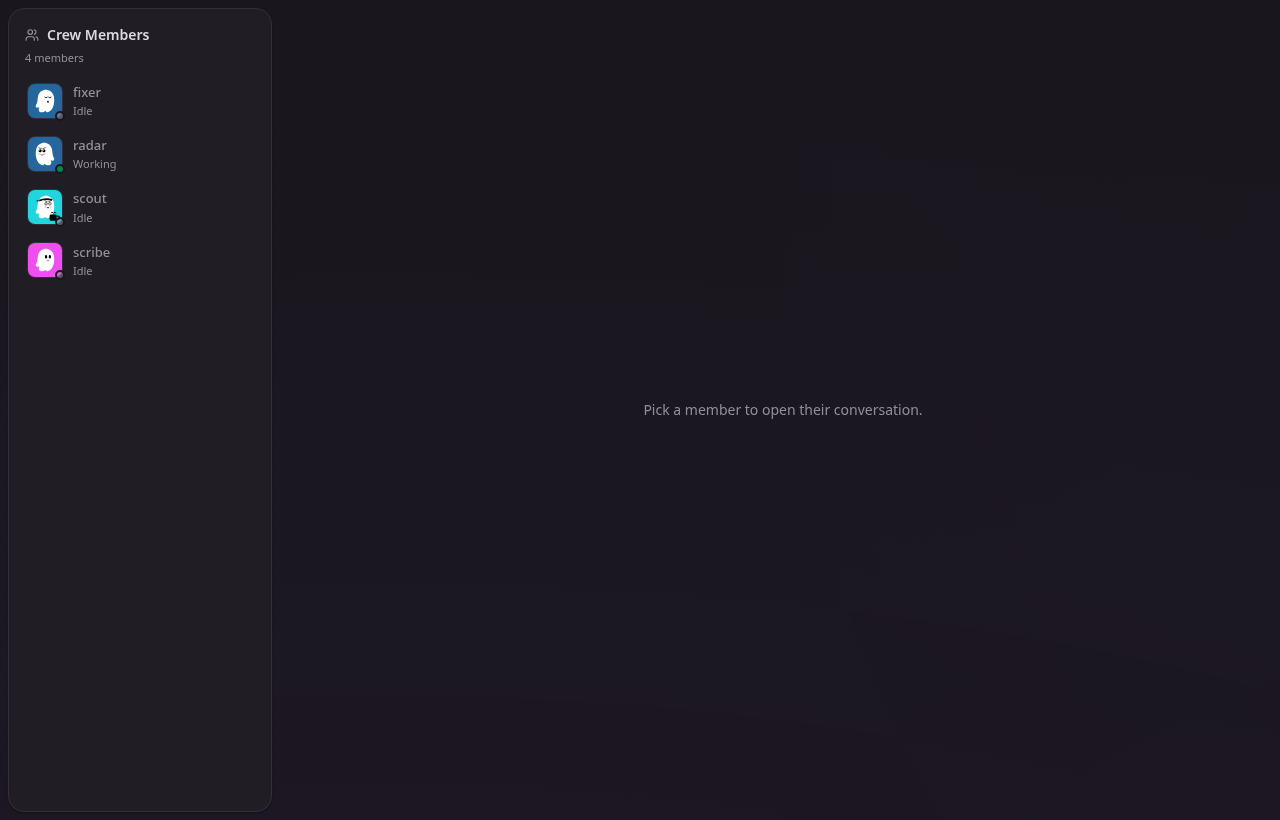
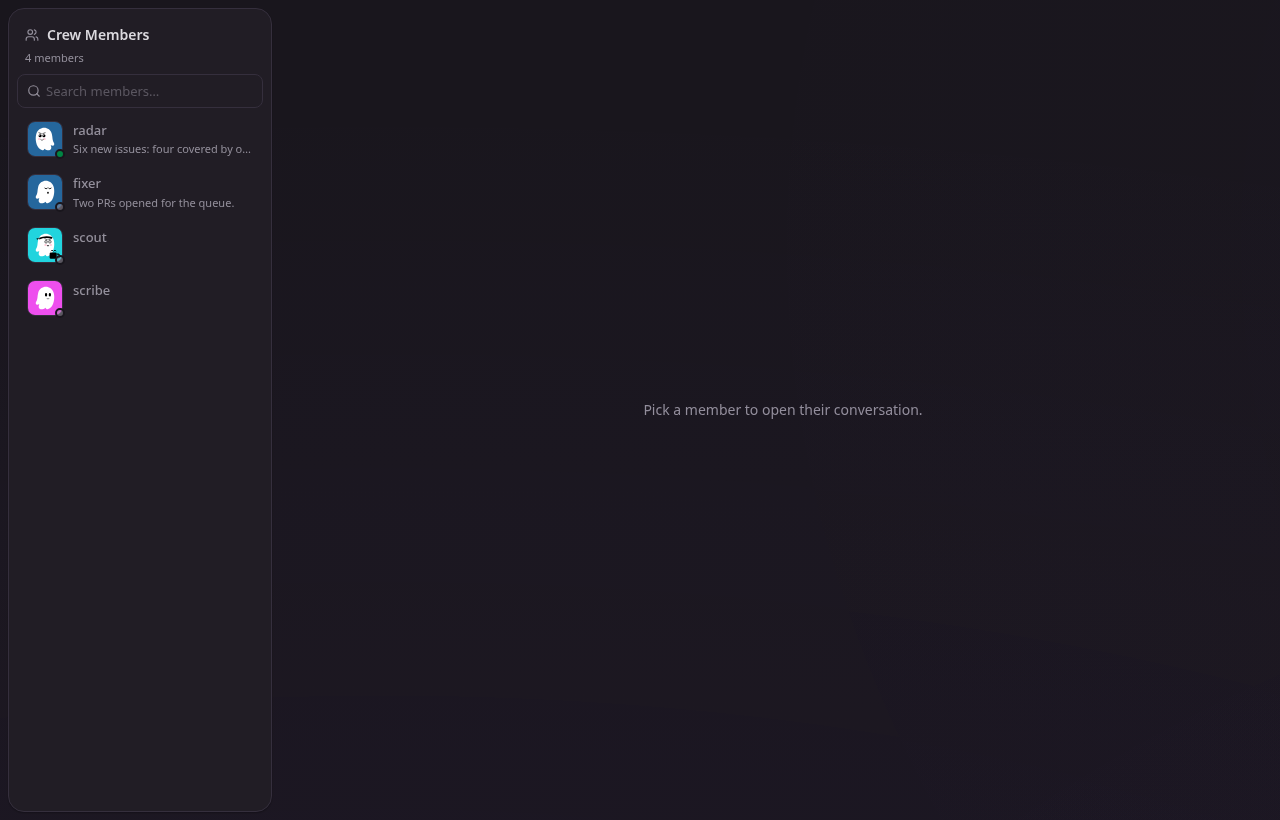
fix(members): roster rows read like session rows, plus search
Follow-up PM round on the Crew Members page (the prior batch landed
in #6616):

- Roster rows drop the Idle/Working label for the thread's
  last-message preview — the same sub-line a session row carries.
  Presence already rides the avatar dot, so the textual label said
  nothing the dot did not. The preview reuses the sessions list's
  last_message_preview + redaction path, so a member row can never
  leak what a session row would not.
- A SearchInput (the sessions sidebar idiom) filters the roster by
  name; new search_members key across 12 locales, en-XA regenerated.
- The thread header drops its status sub-line (name only, like the
  chat page header), and the drawer's local close button survives
  only below md — on desktop the header's panel toggle is the one
  close gesture, matching the chat page's side panel.

Backend: the roster response gains last_message, read in the same
one-thread-hop batch as last_active_ts.

Tests: backend pins last_message ('' when no transcript); frontend
pins the preview sub-line, the absence of status labels, and the
name filter. Capture assertions updated and all frames re-verified.

Changed region(s): [[0.0, 0.0915, 0.1562, 0.3963]]

diff --git a/website/src/pages/members/MembersPage.tsx b/website/src/pages/members/MembersPage.tsx
@@ -29,6 +29,7 @@ import { useAppSelector } from '../../store'
 import CrewAvatar from '../../components/CrewAvatar'
 import ChatPane from '../../components/ChatPane'
 import ErrorBoundary from '../../components/ErrorBoundary'
+import { SearchInput } from '../../components/ui'
 import ResizeHandle from '../../components/ResizeHandle'
 import { useColumnResize } from '../../hooks/useColumnResize'
 import { loadColumnWidth } from '../../lib/columnWidth'
@@ -119,14 +120,15 @@ export default function MembersPage() {
   // Most-recently-active first (like any IM member list); never-talked
   // members fall to the bottom alphabetically. Sorted once from the roster
   // snapshot — live re-sorting mid-session would move rows under the cursor.
-  const sortedMembers = useMemo(
-    () =>
-      [...members].sort(
-        (a, b) =>
-          (b.last_active_ts ?? 0) - (a.last_active_ts ?? 0) || compareText(a.name, b.name),
-      ),
-    [members],
-  )
+  const [filter, setFilter] = useState('')
+  const sortedMembers = useMemo(() => {
+    const ordered = [...members].sort(
+      (a, b) =>
+        (b.last_active_ts ?? 0) - (a.last_active_ts ?? 0) || compareText(a.name, b.name),
+    )
+    const q = filter.trim().toLowerCase()
+    return q ? ordered.filter((m) => m.name.toLowerCase().includes(q)) : ordered
+  }, [members, filter])
   const activeSlot = active ? slots[active.name] ?? '' : ''
   const activeError = active ? errors[active.name] ?? '' : ''
 
@@ -200,6 +202,16 @@ export default function MembersPage() {
         <div className="px-4 pb-2 text-[11px] text-muted">
           {t('pages.membersPage.member_count', { count: members.length })}
         </div>
+        {/* Same search idiom as the Sessions sidebar. */}
+        <div className="px-2 pb-1">
+          <SearchInput
+            className="w-full"
+            placeholder={t('pages.membersPage.search_members')}
+            value={filter}
+            onChange={(e) => setFilter(e.target.value)}
+            data-testid="member-search"
+          />
+        </div>
         <ul
           className="flex-1 overflow-y-auto scrollbar-none list-none m-0 px-2 pb-2"
           style={{ scrollbarWidth: 'none' }}
@@ -248,10 +260,11 @@ export default function MembersPage() {
                 </span>
                 <span className="min-w-0 flex-1">
                   <span className="block text-[13px] font-medium truncate">{m.name}</span>
+                  {/* Last-message preview, like a session row — presence
+                      already rides the avatar dot, so a textual Idle/Working
+                      label said nothing the dot did not. */}
                   <span className="block text-[11px] text-muted truncate">
-                    {isRunning(m)
-                      ? t('pages.membersPage.status_working')
-                      : t('pages.membersPage.status_idle')}
+                    {m.last_message || '\u00a0'}
                   </span>
                 </span>
               </button>
@@ -296,11 +309,6 @@ export default function MembersPage() {
               <CrewAvatar seed={active.name} size={30} />
               <div className="min-w-0 flex-1">
                 <div className="text-[13.5px] font-semibold truncate">{active.name}</div>
-                <div className="text-[11px] text-muted truncate">
-                  {isRunning(active)
-                    ? t('pages.membersPage.status_working')
-                    : t('pages.membersPage.status_idle')}
-                </div>
               </div>
               {/* One action in the header: toggle the detail drawer — same
                   icon and hit-target as the chat page's side-panel toggle, so
@@ -358,11 +366,13 @@ export default function MembersPage() {
             <div className="text-[11px] font-semibold tracking-wide text-muted flex-1">
               {t('pages.membersPage.configuration')}
             </div>
-            {/* Drawer-local close: below md the overlay covers the header's
-                Details toggle, so without this the drawer cannot be closed. */}
+            {/* Drawer-local close, MOBILE ONLY: below md the overlay covers
+                the header's toggle, so without this the drawer cannot be
+                closed there. On md+ the header toggle is the one close
+                gesture, same as the chat page's side panel. */}
             <button
               onClick={() => setDrawerOpen(false)}
-              className="inline-flex items-center p-1 -mr-1 rounded hover:bg-accent/40"
+              className="md:hidden inline-flex items-center p-1 -mr-1 rounded hover:bg-accent/40"
               aria-label={t('app.close')}
               data-testid="member-drawer-close"
             >

diff --git a/website/src/pages/members/MembersPage.test.tsx b/website/src/pages/members/MembersPage.test.tsx
@@ -226,4 +226,31 @@ describe('MembersPage drawer and edit jump', () => {
       navigateSpy.mockClear()
     }
   })
+
+  it('roster rows show the last message preview, not an Idle/Working label', async () => {
+    await renderPage([
+      row({ last_message: 'Six new issues triaged.' }),
+      row({ name: 'quiet', slug: 'quiet' }),
+    ])
+    await screen.findByText('oncall')
+    // The preview is the row's sub-line, like a session row. Presence rides
+    // the avatar dot, so a textual status label must not come back.
+    expect(screen.getByText('Six new issues triaged.')).toBeTruthy()
+    expect(screen.queryByText(/^(idle|working)$/i)).toBeNull()
+  })
+
+  it('the search box filters the roster by name', async () => {
+    await renderPage([
+      row({ name: 'radar', slug: 'radar' }),
+      row({ name: 'scribe', slug: 'scribe' }),
+    ])
+    await screen.findByText('radar')
+    // SearchInput spreads props onto its inner <input>, so the testid IS the input.
+    const box = screen.getByTestId('member-search') as HTMLInputElement
+    fireEvent.change(box, { target: { value: 'scr' } })
+    expect(screen.queryByText('radar')).toBeNull()
+    expect(screen.getByText('scribe')).toBeTruthy()
+    fireEvent.change(box, { target: { value: '' } })
+    expect(screen.getByText('radar')).toBeTruthy()
+  })
 })

diff --git a/website/src/api/client.ts b/website/src/api/client.ts
@@ -2001,6 +2001,7 @@ export interface MemberRosterRow {
   running: boolean
   /** Epoch seconds of the DM transcript's last write; 0 = never talked. */
   last_active_ts?: number
+  last_message?: string
   kiro_agent?: string
   workspace?: string
   memory_store?: string

diff --git a/src/kiro_crew/dashboard/handlers/members.py b/src/kiro_crew/dashboard/handlers/members.py
@@ -23,6 +23,7 @@ import logging
 
 from aiohttp import web
 
+import kiro_crew.dashboard.handlers as _h
 from kiro_crew import members as members_mod
 from kiro_crew.config.loader import KiroCrewConfig
 from kiro_crew.dashboard.chat_persistence import rehydrate_slot_from_history_async
@@ -142,21 +143,35 @@ async def api_members(request: web.Request) -> web.Response:
     # transcript's mtime is the one durable signal that survives restarts and
     # covers live and dormant threads alike. File stats are IO — one thread
     # hop for the whole roster, mirroring the binding reads above.
-    def _read_last_active() -> dict[str, float]:
+    def _read_transcript_tails() -> dict[str, tuple[float, str]]:
         if state is None or state.conversation_log is None:
             return {}
-        out: dict[str, float] = {}
+
+        def _sanitize(text: str) -> str:
+            # Same redaction chain the sessions list uses, injected so it
+            # runs BEFORE the preview's length cap — a credential split by
+            # truncation leaves a partial token the patterns cannot match.
+            text, _ = _h.redact_exfiltration_urls(text)
+            text, _ = _h.redact_credentials(text)
+            return text
+
+        out: dict[str, tuple[float, str]] = {}
         for row in rows:
             if not row["slot_key"]:
                 continue
-            mt = state.conversation_log.session_mtime(f"dashboard:{row['slot_key']}")
-            if mt:
-                out[row["slot_key"]] = mt
+            log_key = f"dashboard:{row['slot_key']}"
+            mt = state.conversation_log.session_mtime(log_key)
+            if not mt:
+                continue
+            preview = state.conversation_log.last_message_preview(log_key, sanitize=_sanitize)
+            out[row["slot_key"]] = (mt, preview)
         return out
 
-    last_active = await asyncio.to_thread(_read_last_active)
+    tails = await asyncio.to_thread(_read_transcript_tails)
     for row in rows:
-        row["last_active_ts"] = last_active.get(row["slot_key"], 0.0)
+        mt, preview = tails.get(row["slot_key"], (0.0, ""))
+        row["last_active_ts"] = mt
+        row["last_message"] = preview
 
     return web.json_response({"members": rows})
 

diff --git a/test/test_members_dm_thread.py b/test/test_members_dm_thread.py
@@ -196,8 +196,35 @@ class TestMemberRoutes:
                 data = await resp.json()
         rows = {r["name"]: r for r in data["members"]}
         assert rows[CREW]["last_active_ts"] > 0
+        # The row also carries the transcript's last-message preview — the
+        # roster sub-line, same data a session row shows.
+        assert rows[CREW]["last_message"] == "hello"
         # A member with no transcript stays at 0 — sorted last, never an error.
         assert rows["Docs_Writer"]["last_active_ts"] == 0.0
+        assert rows["Docs_Writer"]["last_message"] == ""
+
+    @pytest.mark.asyncio
+    async def test_roster_preview_redacts_before_truncation(self, tmp_path):
+        """A credential straddling the preview's length cap never leaks.
+
+        Redaction runs on the FULL text before the 120-char cap: truncating
+        first splits the token, and the pattern-based redactors cannot match
+        a partial credential — its raw prefix would reach /api/members.
+        """
+        state = _make_state(tmp_path)
+        write_dm_binding(CREW, member=CREW, slot_key=member_slot_key(CREW))
+        key = f"dashboard:{member_slot_key(CREW)}"
+        # Padding places the AKIA token across the 120-char boundary.
+        secret = "AKIAIOSFODNN7EXAMPLE"
+        state.conversation_log.append(key, "assistant", "x" * 110 + " " + secret)
+        with _patched_config([CREW]):
+            async with TestClient(TestServer(_make_members_app(state))) as client:
+                resp = await client.get("/api/members")
+                assert resp.status == 200
+                data = await resp.json()
+        preview = {r["name"]: r for r in data["members"]}[CREW]["last_message"]
+        # Neither the full token nor any partial prefix of it survives.
+        assert "AKIA" not in preview
 
     @pytest.mark.asyncio
     async def test_thread_create_then_roster_reports_bound(self, tmp_path):

diff --git a/src/kiro_crew/history.py b/src/kiro_crew/history.py
@@ -5295,7 +5295,7 @@ class ConversationLog:
     #: Max characters returned in a last-message preview.
     _PREVIEW_MAX_CHARS = 120
 
-    def last_message_preview(self, key: str) -> str:
+    def last_message_preview(self, key: str, sanitize=None) -> str:
         """Return a short preview of the session's last message ('' if none).
 
         Reads only the tail of the JSONL file (bounded), scanning backwards
@@ -5305,6 +5305,14 @@ class ConversationLog:
         If the initial tail window yields nothing parseable (a single trailing
         line larger than the window), retries once with a 16× window before
         giving up.
+
+        ``sanitize`` (a ``str -> str`` callable) runs on the FULL extracted
+        text BEFORE the length cap. Order is load-bearing: a credential that
+        straddles the truncation boundary leaves a partial token the caller's
+        pattern-based redactors can no longer match, so redaction after
+        truncation lets a raw credential prefix through. Callers inject the
+        redaction chain here (a callable, so this module never imports the
+        security layer).
         """
         path = self._path(key)
         try:
@@ -5336,6 +5344,9 @@ class ConversationLog:
                 preview = strip_markdown_preview(text)
                 if not preview:
                     continue
+                if sanitize is not None:
+                    # Full text first, cap second — see the docstring.
+                    preview = sanitize(preview)
                 if len(preview) > self._PREVIEW_MAX_CHARS:
                     preview = preview[: self._PREVIEW_MAX_CHARS].rstrip() + "…"
                 return preview

diff --git a/src/kiro_crew/dashboard/handlers/sessions.py b/src/kiro_crew/dashboard/handlers/sessions.py
@@ -1054,11 +1054,17 @@ async def api_sessions(request: web.Request) -> web.Response:
         log = state.conversation_log
 
         def _attach_previews(sessions: list[dict]) -> None:
+            def _sanitize(text: str) -> str:
+                # Injected so redaction runs BEFORE the preview's length cap:
+                # a credential split by truncation leaves a partial token the
+                # patterns cannot match, letting its raw prefix through.
+                text, _ = _h.redact_exfiltration_urls(text)
+                text, _ = _h.redact_credentials(text)
+                return text
+
             for s in sessions:
-                preview = log.last_message_preview(s.get("key", ""))
+                preview = log.last_message_preview(s.get("key", ""), sanitize=_sanitize)
                 if preview:
-                    preview, _ = _h.redact_exfiltration_urls(preview)
-                    preview, _ = _h.redact_credentials(preview)
                     s["preview"] = preview
 
         # Tail reads are sync file IO — keep them off the event loop.

diff --git a/src/kiro_crew/security_posture.py b/src/kiro_crew/security_posture.py
@@ -1335,6 +1335,10 @@ NON_EGRESS_REDACTION_MODULES: frozenset[str] = frozenset(
         "dashboard/ws.py",
         "dashboard/server.py",
         "dashboard/handlers/sessions.py",
+        # Roster last-message previews: same preview + redaction chain as
+        # handlers/sessions.py, feeding the same dashboard HTTP surface the
+        # registered sink already covers.
+        "dashboard/handlers/members.py",
         "dashboard/handlers/artifacts.py",
         "dashboard/handlers/core.py",
         "dashboard/handlers/cron.py",
